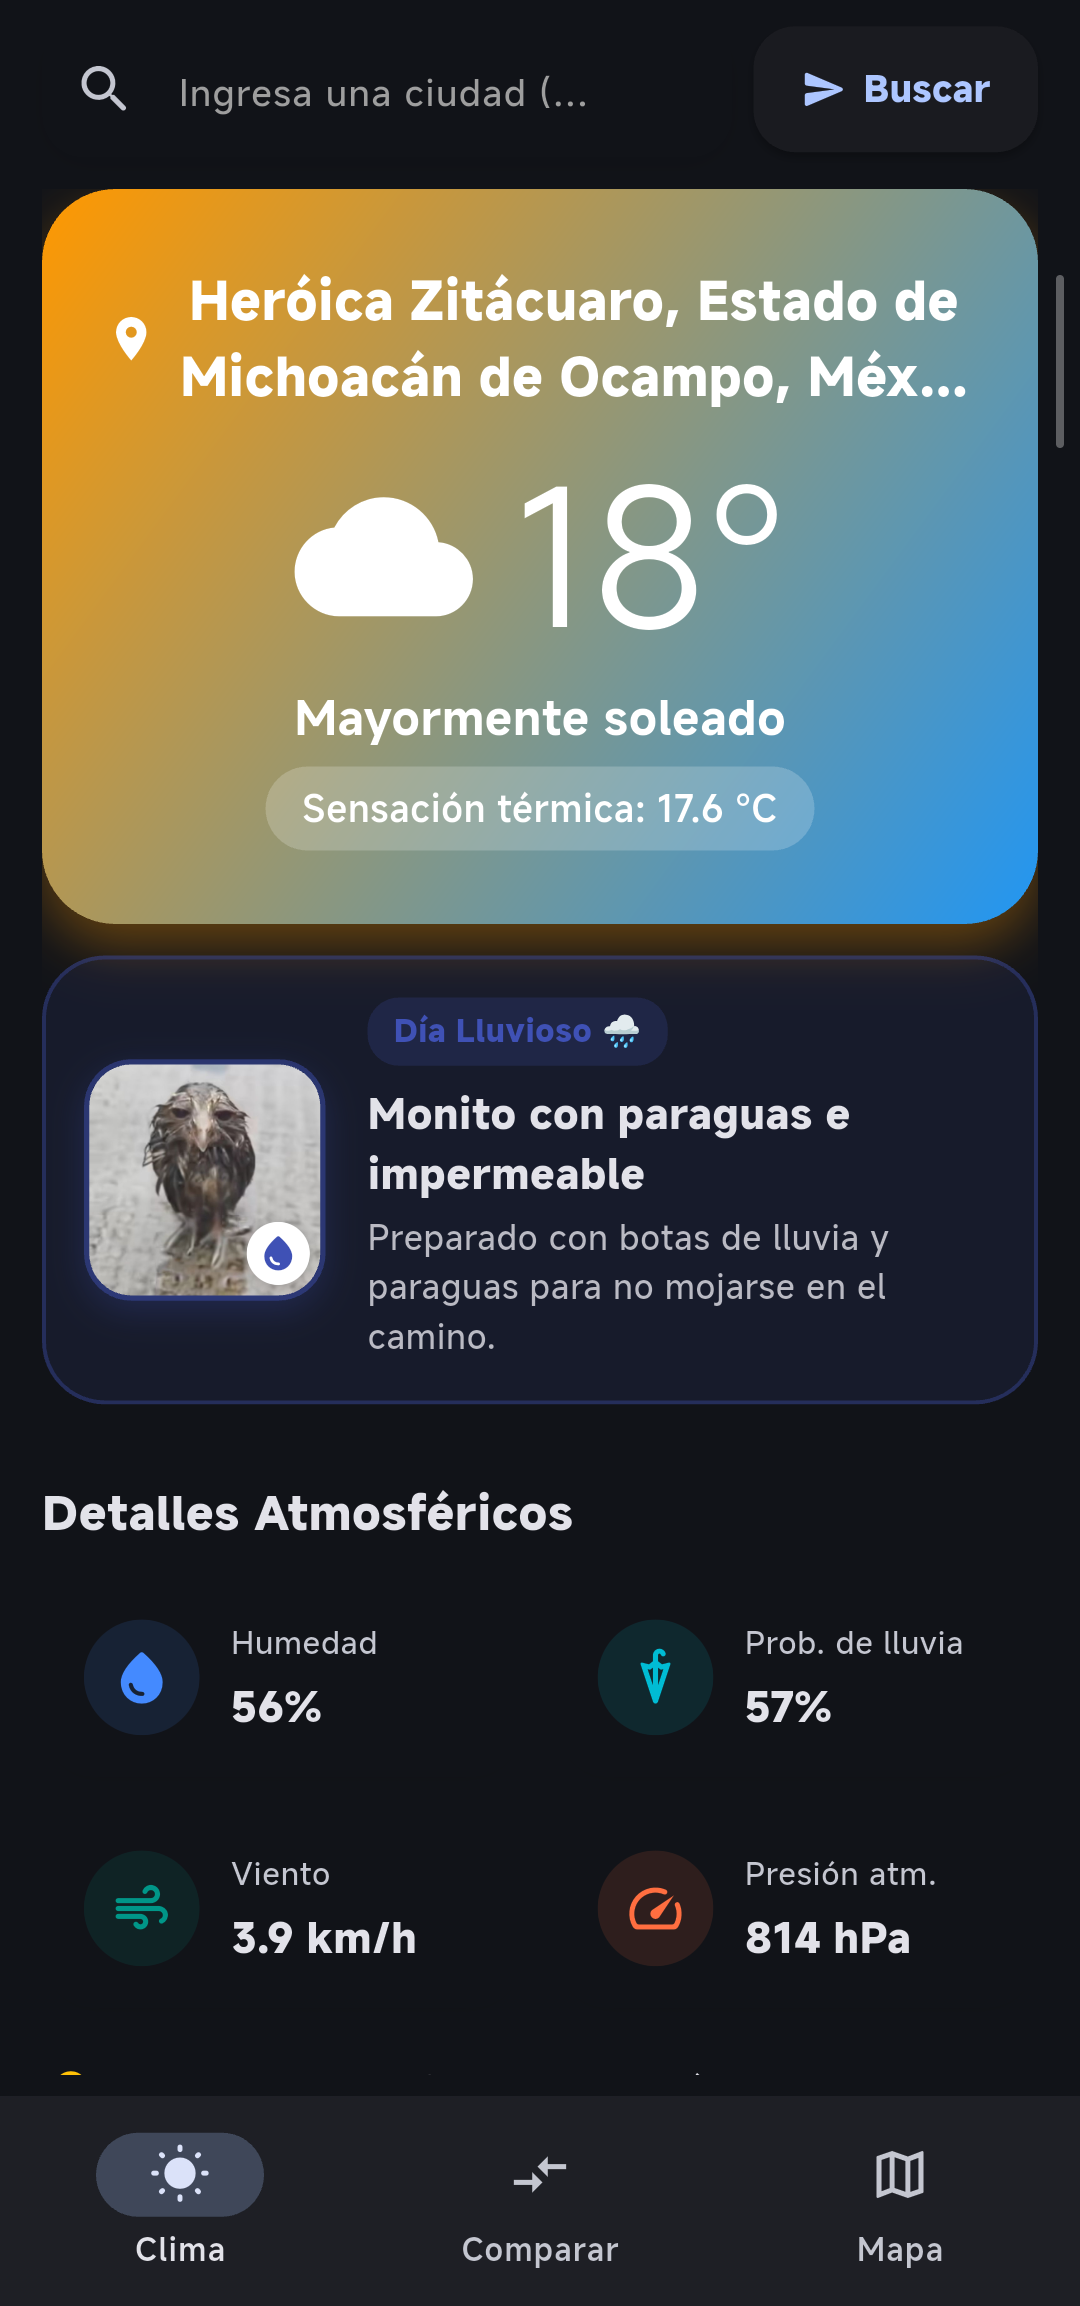
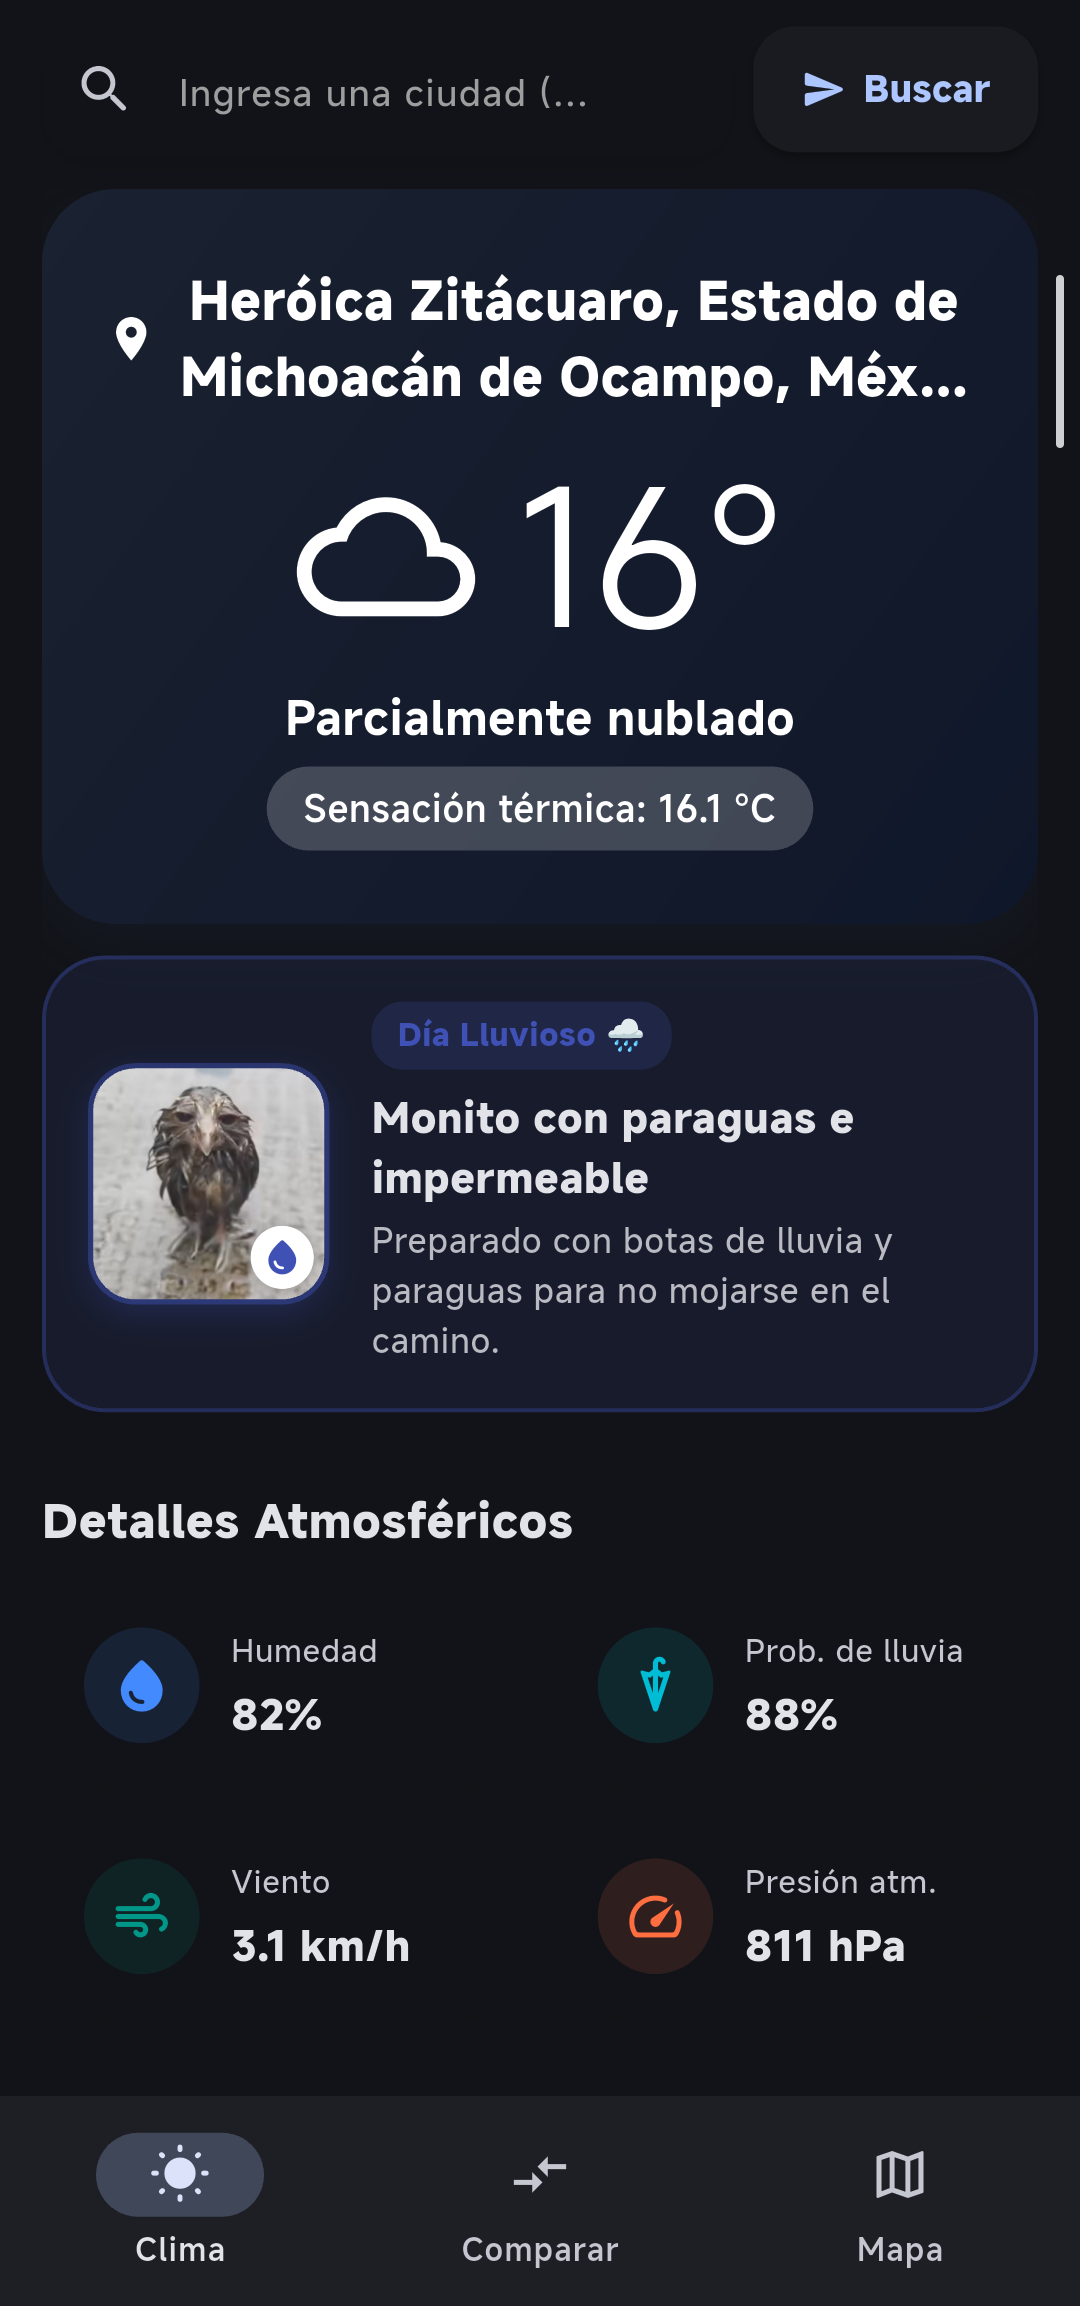
docs: actualizar capturas limpias y README sin notificaciones

diff --git a/README.md b/README.md
@@ -2,7 +2,7 @@
 
 # ☀ CliMap
 
-**Aplicación móvil de pronóstico del clima en Flutter con memes climáticos, notificaciones flotantes, comparador de ciudades y mapa mundial interactivo.**
+**Aplicación móvil de pronóstico del clima en Flutter con memes climáticos dinámicos, comparador de ciudades y mapa mundial interactivo.**
 
 ![Flutter](https://img.shields.io/badge/Flutter-3.47%2B-02569B?logo=flutter&logoColor=white)
 ![Dart](https://img.shields.io/badge/Dart-%5E3.13.2-0175C2?logo=dart&logoColor=white)
@@ -39,18 +39,18 @@
 
 ## 🚀 Diferenciador innovador
 
-Además de cubrir todas las métricas meteorológicas estándar, **CliMap** integra tres experiencias propias pensadas para aportar valor y dinamismo:
+Además de cubrir todas las métricas meteorológicas estándar, **CliMap** integra tres experiencias propias que aportan valor y dinamismo:
 
-### 1. Notificaciones flotantes animadas y Memes Climáticos (*Monito Climático*)
-Al consultar cualquier ciudad, se despliega una **notificación flotante animada** desde la parte superior con un meme representativo del clima actual y la recomendación del momento. Al tocar la notificación o la tarjeta del meme, se abre una vista ampliada con todos los detalles.
+### 1. Memes Climáticos Dinámicos (*Monito Climático*)
+Tarjeta visual temática (`MonitoClimaWidget`) que adapta su imagen, paleta de color y consejo según la temperatura, lluvia o viento de la ciudad consultada:
 
 | Estado climático | Condición de activación | Acción del meme | Vista |
 | :--- | :--- | :--- | :---: |
-| **Día Lluvioso / Tormenta 🌧** | Prob. lluvia ≥ 40% o código WMO de lluvia/tormenta | Monito con paraguas e impermeable | <img src="assets/imagenes/lluvioso.png" width="56" alt="Meme lluvioso"> |
-| **Día Caluroso ☀** | Temperatura ≥ 26 °C | Monito poniéndose protector solar FPS 50+ | <img src="assets/imagenes/caluroso.png" width="56" alt="Meme caluroso"> |
-| **Día Frío ❄** | Temperatura < 15 °C | Monito bien abrigado con chocolate caliente | <img src="assets/imagenes/frio.png" width="56" alt="Meme frío"> |
-| **Día Ventoso 💨** | Velocidad del viento ≥ 22 km/h | Monito sujetando su sombrero ante ráfagas | <img src="assets/imagenes/viento.png" width="56" alt="Meme viento"> |
-| **Clima Agradable 🌤** | Condiciones templadas estables | Monito paseando relajado al aire libre | <img src="assets/imagenes/templado.png" width="56" alt="Meme templado"> |
+| **Día Lluvioso 🌧** | Prob. lluvia ≥ 40% o código WMO de lluvia/tormenta | Monito con paraguas e impermeable | <img src="assets/imagenes/lluvioso.png" width="56" alt="Meme lluvioso"> |
+| **Día Caluroso ☀** | Temperatura ≥ 26 °C | Monito poniéndose protector solar | <img src="assets/imagenes/caluroso.png" width="56" alt="Meme caluroso"> |
+| **Día Frío ❄** | Temperatura < 15 °C | Monito bien abrigado | <img src="assets/imagenes/frio.png" width="56" alt="Meme frío"> |
+| **Día Ventoso 💨** | Velocidad del viento ≥ 22 km/h | Monito sujetando su sombrero | <img src="assets/imagenes/viento.png" width="56" alt="Meme viento"> |
+| **Clima Agradable 🌤** | Condiciones templadas estables | Monito paseando relajado | <img src="assets/imagenes/templado.png" width="56" alt="Meme templado"> |
 
 ### 2. Comparador de Ciudades + Índice de Aptitud al Aire Libre
 Compara dos ciudades al mismo tiempo, evalúa lluvia, temperatura ideal y viento para calcular un **puntaje de aptitud de 0 a 100%**, emite un **veredicto automático** y muestra una tabla comparativa con los 6 indicadores clave.
@@ -68,39 +68,39 @@ Mapa interactivo basado en **OpenStreetMap** (`flutter_map`) donde puedes despla
 
 <div align="center">
 
-| Inicio y búsqueda rápida | Clima actual y meme | Detalles, consejos y 7 días |
+| Inicio y búsqueda rápida | Clima actual y meme lluvioso | Detalles, consejos y 7 días |
 | :---: | :---: | :---: |
 | <img src="docs/capturas/01_inicio.png" width="240" alt="Pantalla de inicio"> | <img src="docs/capturas/02_clima_actual.png" width="240" alt="Clima actual y meme"> | <img src="docs/capturas/03_clima_detalles.png" width="240" alt="Detalles atmosféricos y pronóstico"> |
 
 </div>
 
-### Notificaciones flotantes y vista ampliada de memes
+### Memes dinámicos según el clima de cada ciudad
 
 <div align="center">
 
-| Notificación de clima frío | Notificación de clima caluroso | Meme ampliado al tocar |
-| :---: | :---: | :---: |
-| <img src="docs/capturas/05_notificacion_frio.png" width="240" alt="Notificación flotante clima frío"> | <img src="docs/capturas/06_notificacion_calor.png" width="240" alt="Notificación flotante clima caluroso"> | <img src="docs/capturas/04_meme_ampliado.png" width="240" alt="Meme ampliado"> |
-
-</div>
-
-### Comparador de ciudades y mapa mundial interactivo
-
-<div align="center">
-
-| Comparador y veredicto | Tabla comparativa | Mapa mundial (OpenStreetMap) |
-| :---: | :---: | :---: |
-| <img src="docs/capturas/07_comparador.png" width="240" alt="Comparador de ciudades"> | <img src="docs/capturas/08_comparador_tabla.png" width="240" alt="Tabla comparativa"> | <img src="docs/capturas/09_mapa_interactivo.png" width="240" alt="Mapa interactivo"> |
-
-</div>
-
-### Consulta por coordenadas y manejo de errores
-
-<div align="center">
-
-| Consulta de coordenadas en mapa | Validación cuando la ciudad no existe |
+| Clima frío (Oslo, 0 °C) | Clima caluroso (Bangkok, 31 °C) |
 | :---: | :---: |
-| <img src="docs/capturas/10_mapa_consulta.png" width="250" alt="Consulta desde el mapa"> | <img src="docs/capturas/11_error_ciudad.png" width="250" alt="Error ciudad no encontrada"> |
+| <img src="docs/capturas/04_clima_frio.png" width="250" alt="Clima frío con meme"> | <img src="docs/capturas/05_clima_calor.png" width="250" alt="Clima caluroso con meme"> |
+
+</div>
+
+### Comparador de ciudades
+
+<div align="center">
+
+| Veredicto y puntaje de aptitud | Tabla comparativa de indicadores |
+| :---: | :---: |
+| <img src="docs/capturas/06_comparador.png" width="250" alt="Comparador de ciudades"> | <img src="docs/capturas/07_comparador_tabla.png" width="250" alt="Tabla comparativa"> |
+
+</div>
+
+### Mapa mundial interactivo y manejo de errores
+
+<div align="center">
+
+| Mapa mundial (OpenStreetMap) | Consulta de coordenadas en mapa | Validación ciudad no encontrada |
+| :---: | :---: | :---: |
+| <img src="docs/capturas/08_mapa_interactivo.png" width="240" alt="Mapa interactivo"> | <img src="docs/capturas/09_mapa_consulta.png" width="240" alt="Consulta desde el mapa"> | <img src="docs/capturas/10_error_ciudad.png" width="240" alt="Error ciudad no encontrada"> |
 
 </div>
 
@@ -114,7 +114,7 @@ flowchart LR
     BLOC -->|"Consultas HTTP"| API["ClimaApiServicio"]
     API -->|"Geocoding y Forecast"| OM["Open-Meteo API"]
     BLOC -->|"Reglas y Puntaje"| UTIL["RecomendadorClima y EvaluadorActividades"]
-    BLOC -->|"Estado + Alertas"| UI
+    BLOC -->|"Estado"| UI
     MAP["VistaMapa (flutter_map)"] -->|"Tiles"| OSM["OpenStreetMap"]
 ```
 
@@ -158,8 +158,7 @@ lib/
         ├── buscador_ciudades_widget.dart    # Campo de búsqueda con debounce y sugerencias
         ├── lista_pronostico_widget.dart     # Carrusel horizontal de 7 días
         ├── lista_recomendaciones_widget.dart
-        ├── monito_clima_widget.dart         # Tarjeta de meme climático y modal ampliado
-        ├── notificacion_clima_overlay.dart  # Notificación flotante animada con meme
+        ├── monito_clima_widget.dart         # Tarjeta visual temática con memes climáticos
         ├── rejilla_detalles_clima.dart      # Humedad, lluvia, viento y presión
         └── tarjeta_clima_actual.dart        # Tarjeta principal con gradiente dinámico
 ```
